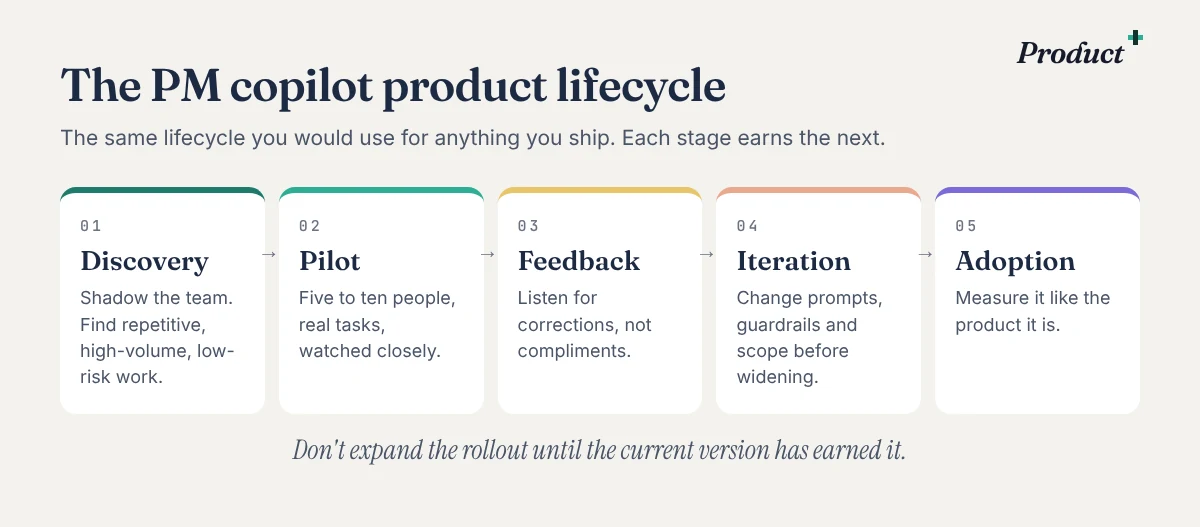
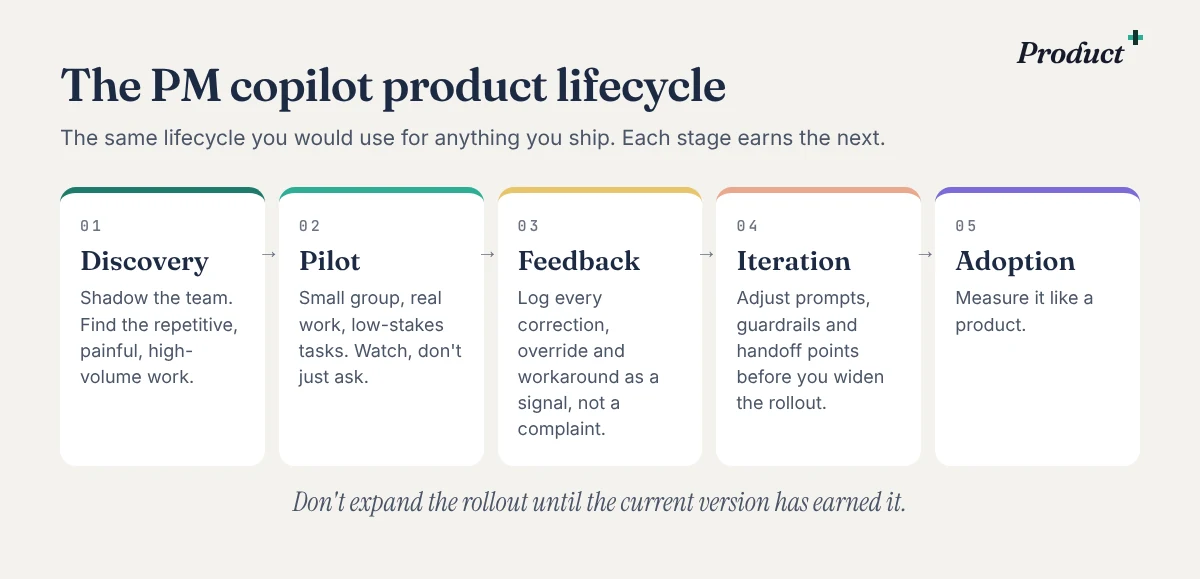
PM Copilots article: figure wording matches the published article
Claude-Session: https://claude.ai/code/session_0143wG8GwjduExhtNF7332nR

diff --git a/insights/pm-copilots.html b/insights/pm-copilots.html
@@ -79,7 +79,7 @@ height="0" width="0" style="display:none;visibility:hidden"></iframe></noscript>
 <p>When something is being built for internal use, there's a natural pull toward treating it as a technical project instead of a product. Someone in ops says "we need a bot that can summarize tickets," an engineer builds it in a sprint, it gets dropped into a Slack channel, and everyone moves on. Three months later, nobody's using it, and nobody can quite explain why.</p>
 <p>The reason is almost always the same one that kills external products: nobody validated the problem, involved the users early, or built in a way to learn and adjust. Internal stakeholders are still users. They still have workflows, trust issues, and opinions about tools getting shoved into their day. Treating them as an afterthought instead of a customer is the single biggest reason these projects fail quietly.</p>
 <p>So the fix is simple to state, even if it takes real discipline to execute: run your internal AI agent through the same lifecycle you'd use for any product bet.</p>
-<figure><img src="/assets/insights/pm-copilots/copilot-lifecycle.webp" alt="The PM copilot product lifecycle in five stages: discovery, pilot, feedback, iteration and adoption. Don&#x27;t expand the rollout until the current version has earned it." width="1200" height="527" loading="lazy"></figure>
+<figure><img src="/assets/insights/pm-copilots/copilot-lifecycle.webp" alt="The PM copilot product lifecycle in five stages: discovery, pilot, feedback, iteration and adoption. Don&#x27;t expand the rollout until the current version has earned it." width="1200" height="579" loading="lazy"></figure>
 </section>
 <section id="discovery-find-the-work-worth-automating-not-the-work-that-looks-impressive" data-ask="Agentic AI as an Internal Product: Building PM Copilots for Your Own Organization: Discovery: find the work worth automating, not the work that looks impressive" data-kind="Insight" data-keywords="internal ai copilot pm copilots agentic ai internal tools adoption pilot discovery feedback iteration weekly active users task success time saved return rate sales customer success operations">
 <h2>Discovery: find the work worth automating, not the work that looks impressive</h2>
@@ -111,7 +111,7 @@ height="0" width="0" style="display:none;visibility:hidden"></iframe></noscript>
 <h2>Adoption: measure it like the product it is</h2>
 <p>This is the stage most internal AI efforts skip entirely, and it's the one that determines whether the tool survives past its first quarter. If you can't point to numbers that show the copilot is actually helping, it will get quietly deprioritized the moment budget gets tight or a reorg happens.</p>
 <p>The metrics that matter for a PM Copilot look a lot like the metrics you'd track for any product, just tuned for an internal audience.</p>
-<figure><img src="/assets/insights/pm-copilots/copilot-metrics.webp" alt="Four numbers that tell you if the copilot is working, from an illustrative eight-week pilot: weekly active users 68 percent, task success rate 84 percent, 11 minutes saved per task, and a 76 percent voluntary return rate, with weekly active users climbing from 22 to 68 percent." width="1200" height="778" loading="lazy"><figcaption>Illustrative numbers from an example pilot.</figcaption></figure>
+<figure><img src="/assets/insights/pm-copilots/copilot-metrics.webp" alt="Four numbers that tell you if the copilot is working, from an example eight-week pilot: weekly active users 68 percent, task success rate 84 percent, 11 minutes saved per task, and a 76 percent voluntary return rate, with weekly active users climbing from 22 to 68 percent." width="1200" height="778" loading="lazy"><figcaption>Numbers from an example pilot.</figcaption></figure>
 <ul><li><b>Weekly active users</b> among the eligible group tells you whether the tool has staying power beyond the initial curiosity.</li><li><b>Task success rate</b>, the share of tasks completed without a human having to step in and fix things, tells you whether the agent is actually reliable.</li><li><b>Time saved per task</b> is the number that will matter most to your VP or CFO, so get comfortable measuring it honestly rather than optimistically.</li><li><b>Voluntary return rate</b>, the share of people who come back without being reminded or told to, is maybe the most honest signal of all. People don't return to tools that waste their time, no matter how good the announcement email was.</li></ul>
 </section>
 <section id="the-mindset-shift" data-ask="Agentic AI as an Internal Product: Building PM Copilots for Your Own Organization: The mindset shift" data-kind="Insight" data-keywords="internal ai copilot pm copilots agentic ai internal tools adoption pilot discovery feedback iteration weekly active users task success time saved return rate sales customer success operations">

diff --git a/src/insights.py b/src/insights.py
@@ -412,7 +412,7 @@ ARTICLES = [
             ("h2", "Adoption: measure it like the product it is"),
             ("p", "This is the stage most internal AI efforts skip entirely, and it's the one that determines whether the tool survives past its first quarter. If you can't point to numbers that show the copilot is actually helping, it will get quietly deprioritized the moment budget gets tight or a reorg happens."),
             ("p", "The metrics that matter for a PM Copilot look a lot like the metrics you'd track for any product, just tuned for an internal audience."),
-            ("fig", "copilot-metrics.webp", "Four numbers that tell you if the copilot is working, from an illustrative eight-week pilot: weekly active users 68 percent, task success rate 84 percent, 11 minutes saved per task, and a 76 percent voluntary return rate, with weekly active users climbing from 22 to 68 percent.", "Illustrative numbers from an example pilot."),
+            ("fig", "copilot-metrics.webp", "Four numbers that tell you if the copilot is working, from an example eight-week pilot: weekly active users 68 percent, task success rate 84 percent, 11 minutes saved per task, and a 76 percent voluntary return rate, with weekly active users climbing from 22 to 68 percent.", "Numbers from an example pilot."),
             ("ul", ["<b>Weekly active users</b> among the eligible group tells you whether the tool has staying power beyond the initial curiosity.", "<b>Task success rate</b>, the share of tasks completed without a human having to step in and fix things, tells you whether the agent is actually reliable.", "<b>Time saved per task</b> is the number that will matter most to your VP or CFO, so get comfortable measuring it honestly rather than optimistically.", "<b>Voluntary return rate</b>, the share of people who come back without being reminded or told to, is maybe the most honest signal of all. People don't return to tools that waste their time, no matter how good the announcement email was."]),
             ("h2", "The mindset shift"),
             ("p", "If there's one idea to take from this, it's that an internal AI agent is not a shortcut around product discipline; it's a test of it. The stakeholders are internal, and the \"customers\" sit down the hall or on the same Zoom calls you're already on, but the job is the same one you already know how to do. Understand the problem before you build. Pilot small and watch closely. Treat feedback as data, not noise. Iterate before you scale. And measure adoption honestly, even when the story it tells isn't the one you were hoping for."),
